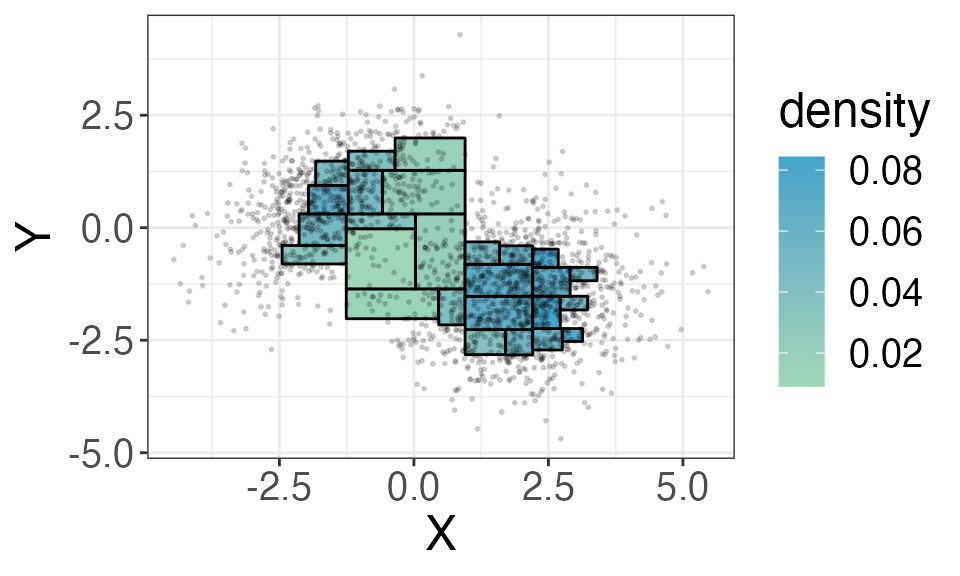
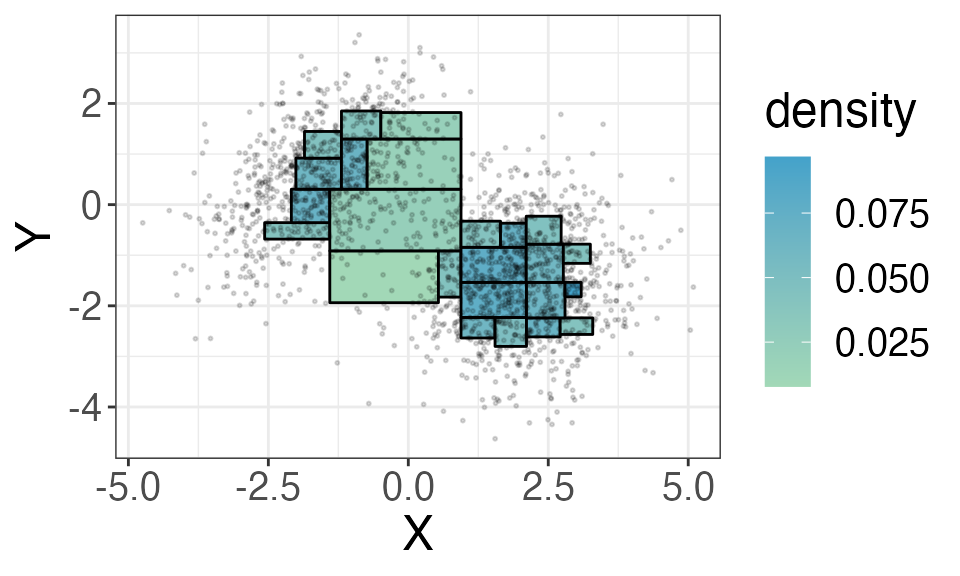
build a github website

diff --git a/docs/articles/beta_trees.html b/docs/articles/beta_trees.html
@@ -141,17 +141,17 @@ simulatneously valid at confidence level <code>alpha = 0.1</code>.</p>
 <code class="sourceCode R"><span class="va">hist</span> <span class="op">&lt;-</span> <span class="fu"><a href="../reference/BuildHist.html">BuildHist</a></span><span class="op">(</span><span class="va">X</span>, alpha <span class="op">=</span> <span class="fl">0.1</span>, method <span class="op">=</span> <span class="st">"weighted_bonferroni"</span><span class="op">)</span></code></pre></div>
 <p>The <code>hist</code> is a matrix describing each region in the
 beta-tree histogram. Each row represents one region, and this histogram
-includes 26 regions. Let’s look at the first region in the
+includes 24 regions. Let’s look at the first region in the
 histogram:</p>
 <div class="sourceCode" id="cb3"><pre class="downlit sourceCode r">
 <code class="sourceCode R"><span class="va">hist</span><span class="op">[</span><span class="fl">1</span>,<span class="op">]</span>
-<span class="co">#&gt; [1] -2.45021377 -0.80559126 -1.25715679 -0.39561215  0.03271124  0.01668022</span>
-<span class="co">#&gt; [7]  0.05554717 31.00000000  7.00000000</span></code></pre></div>
+<span class="co">#&gt; [1] -2.56613342 -0.68129093 -1.40232246 -0.35586994  0.04224662  0.02154253</span>
+<span class="co">#&gt; [7]  0.07173925 31.00000000  7.00000000</span></code></pre></div>
 <p>and the columns provides the following information:</p>
 <ul>
 <li><p>the first two columns are the lower bounds in <span class="math inline">\(x\)</span> and <span class="math inline">\(y\)</span>-coordinates of each region; the next
 two columns are the upper bounds in <span class="math inline">\(x\)</span> and <span class="math inline">\(y\)</span>-coordinates of each region, i.e., this
-rectangle is defined by the bounds [ -2.45 -1.26 ] *[ -0.81 -0.4
+rectangle is defined by the bounds [ -2.57 -1.4 ] *[ -0.68 -0.36
 ].</p></li>
 <li><p>the fifth column stores the empirical density <span class="math inline">\(h(R)\)</span> in this region</p></li>
 <li><p>the sixth and seventh columns store the lower and upper
@@ -248,10 +248,10 @@ tree.</p>
 <span class="co">#&gt; [1] 7</span>
 <span class="co">#&gt; </span>
 <span class="co">#&gt; $low</span>
-<span class="co">#&gt; [1] -1.257157 -1.358821</span>
+<span class="co">#&gt; [1] -1.4023225 -0.9135046</span>
 <span class="co">#&gt; </span>
 <span class="co">#&gt; $up</span>
-<span class="co">#&gt; [1]  0.03043137 -0.02289489</span>
+<span class="co">#&gt; [1] -0.5857733 -0.1549037</span>
 <span class="co">#&gt; </span>
 <span class="co">#&gt; $lower</span>
 <span class="co">#&gt; NULL</span>
@@ -377,16 +377,16 @@ in the k-d tree as before – the <code>lower</code> and
 <span class="co">#&gt; [1] 7</span>
 <span class="co">#&gt; </span>
 <span class="co">#&gt; $low</span>
-<span class="co">#&gt; [1] -1.257157 -1.358821</span>
+<span class="co">#&gt; [1] -1.4023225 -0.9135046</span>
 <span class="co">#&gt; </span>
 <span class="co">#&gt; $up</span>
-<span class="co">#&gt; [1]  0.03043137 -0.02289489</span>
+<span class="co">#&gt; [1] -0.5857733 -0.1549037</span>
 <span class="co">#&gt; </span>
 <span class="co">#&gt; $lower</span>
-<span class="co">#&gt; [1] 0.003972055</span>
+<span class="co">#&gt; [1] 0.01103009</span>
 <span class="co">#&gt; </span>
 <span class="co">#&gt; $upper</span>
-<span class="co">#&gt; [1] 0.01678687</span>
+<span class="co">#&gt; [1] 0.04661584</span>
 <span class="co">#&gt; </span>
 <span class="co">#&gt; $bounded</span>
 <span class="co">#&gt; [1] 1</span>

diff --git a/docs/articles/mode.html b/docs/articles/mode.html
@@ -140,12 +140,12 @@ returns the <strong>index</strong> of the modes identified in the
 histogram.</p>
 <div class="sourceCode" id="cb4"><pre class="downlit sourceCode r">
 <code class="sourceCode R"><span class="va">modes</span><span class="op">$</span><span class="va">mode</span> </code></pre></div>
-<pre><code><span class="co">## [1] 22  6</span></code></pre>
+<pre><code><span class="co">## [1] 17  6</span></code></pre>
 <div class="sourceCode" id="cb6"><pre class="downlit sourceCode r">
 <code class="sourceCode R"><span class="va">hist</span><span class="op">$</span><span class="va">hist</span><span class="op">[</span><span class="va">modes</span><span class="op">$</span><span class="va">mode</span>, <span class="op">]</span> <span class="co"># detail of the modes</span></code></pre></div>
-<pre><code><span class="co">##           [,1]       [,2]      [,3]       [,4]       [,5]       [,6]      [,7]</span>
-<span class="co">## [1,]  2.209631 -1.4616902  2.676533 -0.8745239 0.11307711 0.07356053 0.1626326</span>
-<span class="co">## [2,] -1.885450  0.2940145 -1.184586  0.8926120 0.07508307 0.04903103 0.1076871</span>
+<pre><code><span class="co">##           [,1]       [,2]      [,3]       [,4]       [,5]       [,6]       [,7]</span>
+<span class="co">## [1,]  2.254748 -2.1878717  2.761390 -1.5006028 0.08902943 0.05791669 0.12804614</span>
+<span class="co">## [2,] -1.846913  0.2546279 -1.172347  0.9667757 0.06557166 0.04281985 0.09404548</span>
 <span class="co">##      [,8] [,9]</span>
 <span class="co">## [1,]   61    6</span>
 <span class="co">## [2,]   62    6</span></code></pre>
